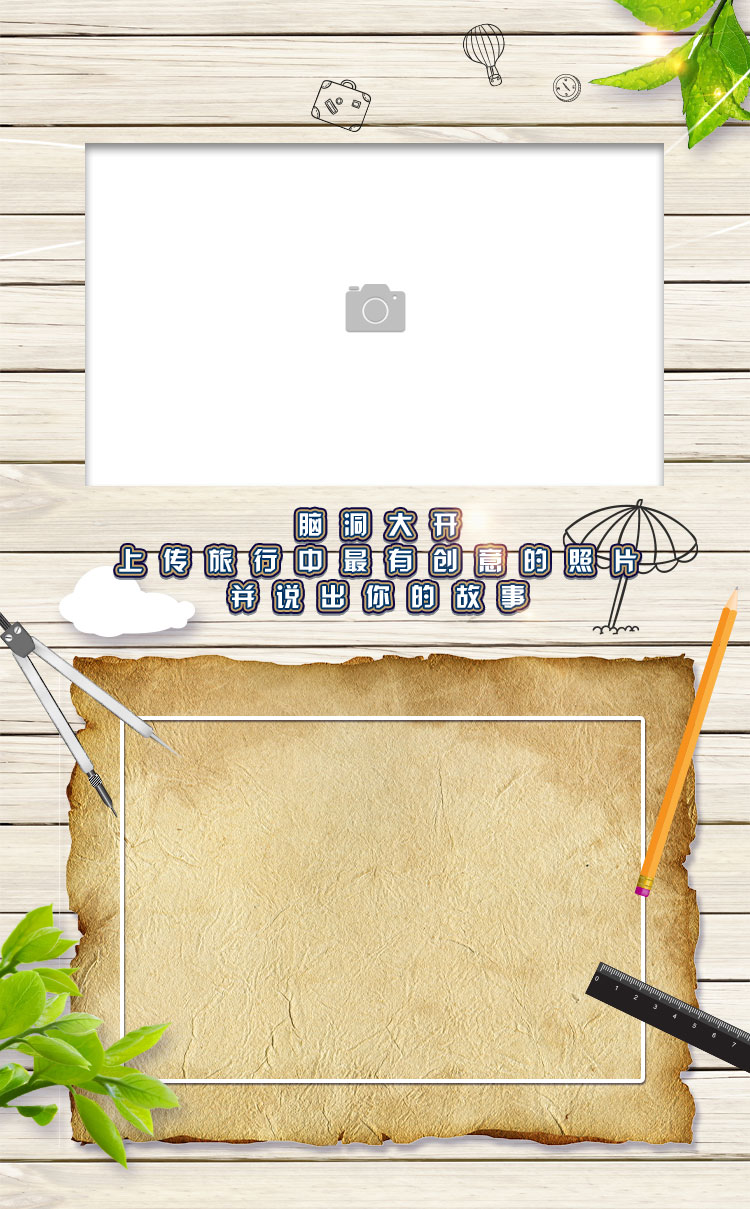
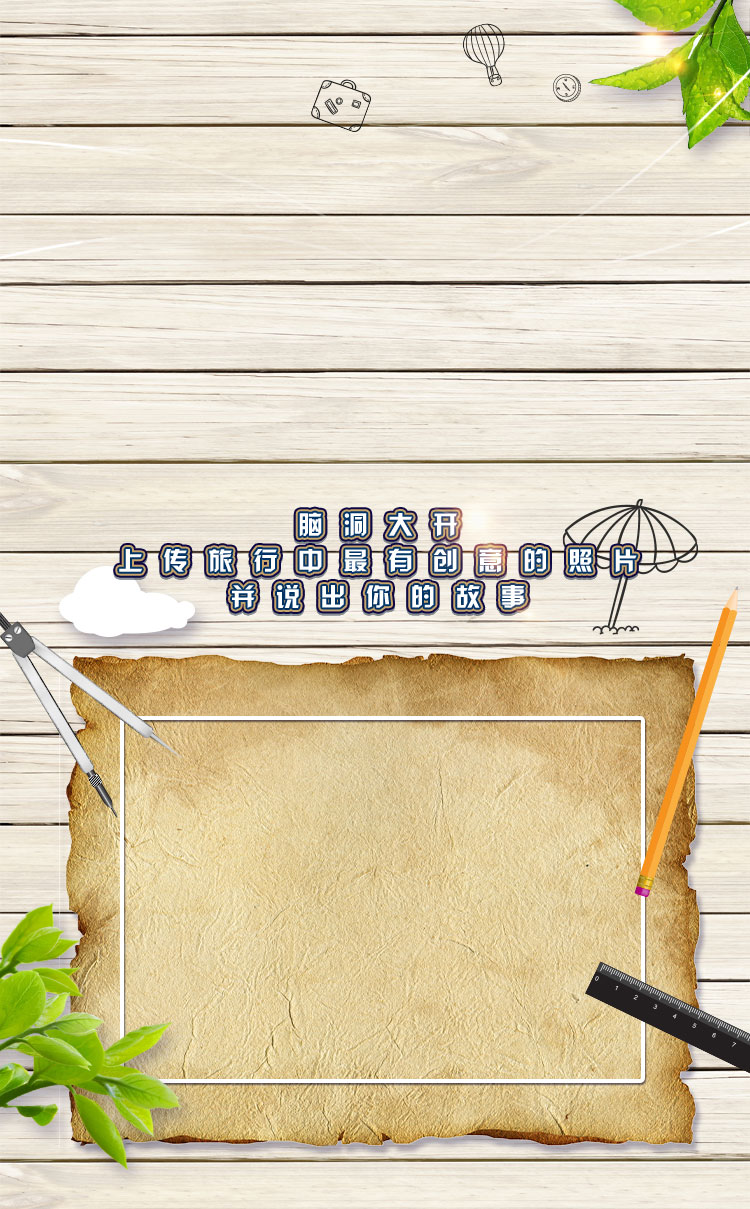
优化背景图

Changed region(s): [[0.092, 0.0918, 0.8893, 0.4285]]

diff --git a/kake/frontend/less/activity/activity.less b/kake/frontend/less/activity/activity.less
@@ -34,18 +34,17 @@ img.screen-shot {
 
 .kake-panel {
   span {
-    margin-top: 73px;
-    width: 300px;
+    width: 100%;
     height: 171px;
+    
     display: flex;
-    margin-left: 10%;
-    align-items: center;
-    justify-content: center;
+    margin: 0 auto;
     img {
       max-width: 100%;
       max-height: 100%;
       display: block;
       margin: auto;
+      margin-top: 75px;
 
     }
   }
